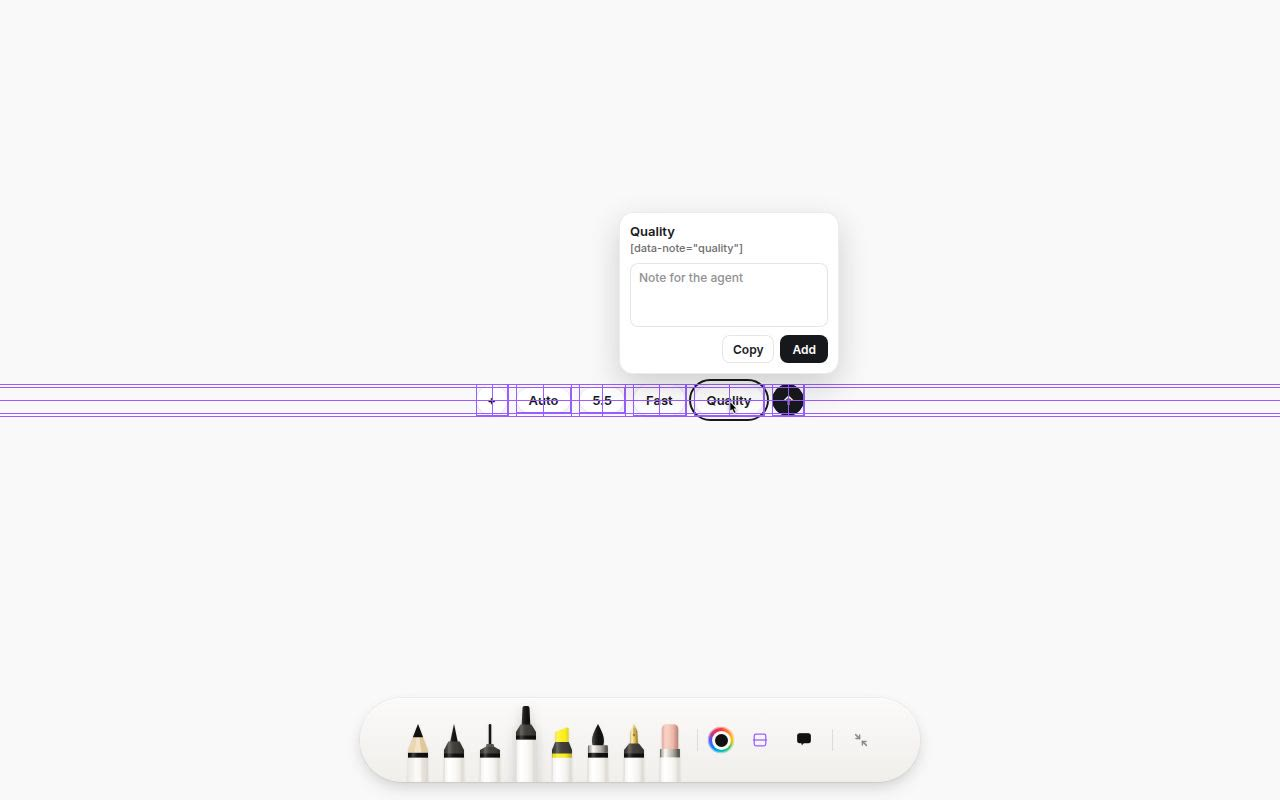
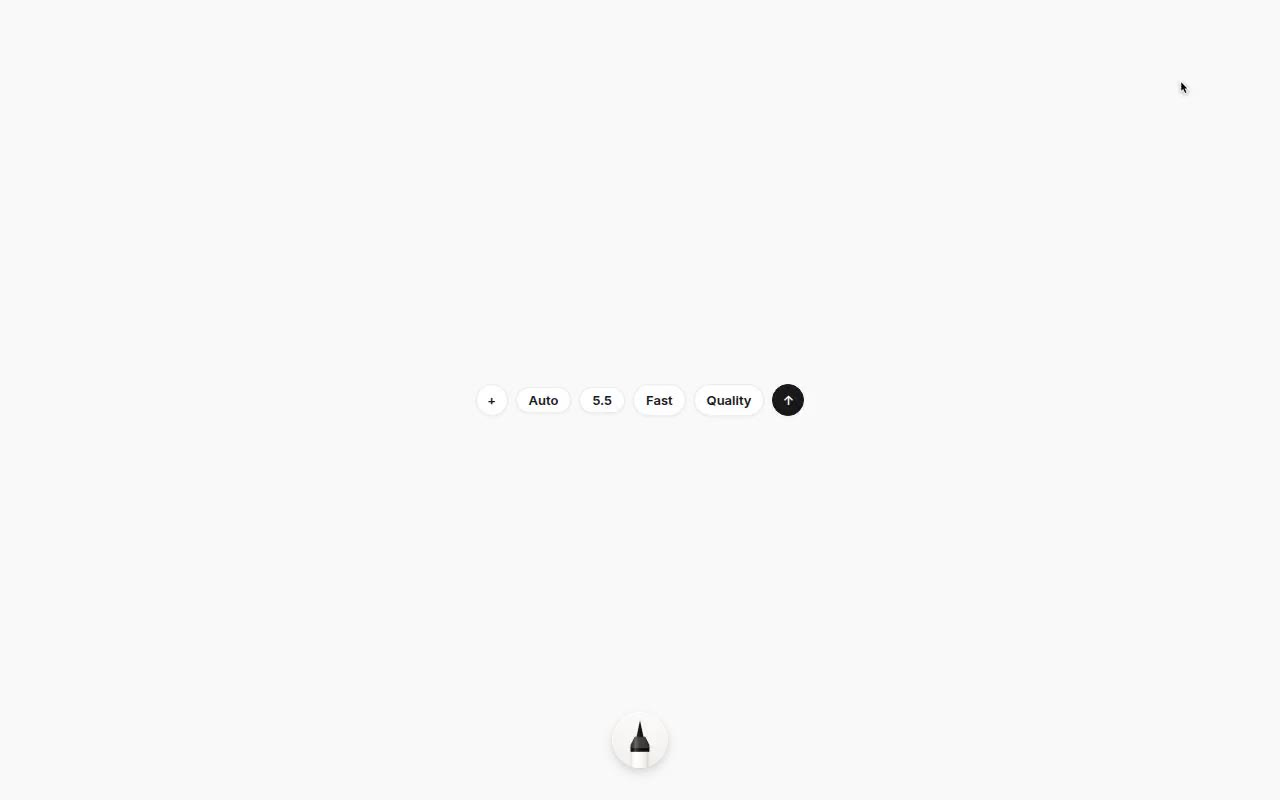
Size walkthrough slots to the clip and pause them offscreen.
16: 10 recordings sit in a centred 672×420 box. The observer keeps running so playback pauses out of view, and the posters are the first frame of each clip.

diff --git a/src/components/CatalogMedia.web.tsx b/src/components/CatalogMedia.web.tsx
@@ -2,14 +2,10 @@ import { useEffect, useRef, useState, type CSSProperties } from 'react';
 import type { CatalogMedia as Media } from '@/src/catalog';
 import { useReduceMotion } from '@/src/context/ReduceMotionContext';
 
-/** Poster files are fixed recordings. The ratio reserves the box before the image arrives. */
-const ASPECT: Record<string, string> = {
-  '/media/stageshow-poster.jpg': '1546 / 1080',
-  '/media/spacing-tuner-poster.jpg': '1280 / 800',
-  '/media/preview-tools-poster.jpg': '1280 / 800',
-};
+const MAX_HEIGHT = 420;
 
-const shell: CSSProperties = {
+/** Stageshow's stage slot: full width of the card, height following the clip, capped at 420. */
+const stageShell: CSSProperties = {
   width: '100%',
   borderRadius: 14,
   overflow: 'hidden',
@@ -17,37 +13,80 @@ const shell: CSSProperties = {
   border: '1px solid rgba(0, 0, 0, 0.04)',
 };
 
+function stageFrame(aspect: string): CSSProperties {
+  return {
+    display: 'block',
+    width: '100%',
+    maxHeight: MAX_HEIGHT,
+    aspectRatio: aspect,
+    objectFit: 'contain',
+    background: '#f9f9f9',
+  };
+}
+
+/** Width of a clip whose height is the 420 cap. 16:10 is 672. */
+function clipMaxWidth(aspect: string): number {
+  const [w, h] = aspect.split('/').map((part) => Number(part.trim()));
+  if (!Number.isFinite(w) || !Number.isFinite(h) || h === 0) return 672;
+  return Math.round((MAX_HEIGHT * w) / h);
+}
+
+/** Walkthrough slot: the clip's own ratio, centred, never taller than 420. */
+function clipShell(aspect: string): CSSProperties {
+  const maxWidth = clipMaxWidth(aspect);
+  return {
+    position: 'relative',
+    width: `min(100%, ${maxWidth}px)`,
+    maxWidth,
+    aspectRatio: aspect,
+    maxHeight: MAX_HEIGHT,
+    marginLeft: 'auto',
+    marginRight: 'auto',
+    borderRadius: 14,
+    overflow: 'hidden',
+    boxSizing: 'border-box',
+    background: '#f9f9f9',
+    border: '1px solid rgba(0, 0, 0, 0.04)',
+  };
+}
+
+const clipFrame: CSSProperties = {
+  position: 'absolute',
+  inset: 0,
+  display: 'block',
+  width: '100%',
+  height: '100%',
+  objectFit: 'cover',
+};
+
 /**
  * Muted looping recording for a catalog entry.
- * The video element is not mounted until the frame nears the viewport, so a
- * below-the-fold card does not request the mp4 or compete for LCP.
+ * No video bytes until the frame intersects the viewport. The observer stays
+ * connected: the clip pauses offscreen and plays again when it returns.
  * Reduced motion, from the OS or the store switch, keeps the poster still.
  */
 export function CatalogMedia({
   media,
   testID,
   stageID,
+  fill = false,
 }: {
   media: Media;
   testID?: string;
   stageID?: string;
+  /** Full-width stage slot. Walkthroughs leave this off and size to the clip. */
+  fill?: boolean;
 }) {
   const { reduceMotion } = useReduceMotion();
   const [system, setSystem] = useState(false);
-  const [near, setNear] = useState(false);
+  const [seen, setSeen] = useState(false);
+  const [visible, setVisible] = useState(false);
   const rootRef = useRef<HTMLDivElement>(null);
   const videoRef = useRef<HTMLVideoElement>(null);
   const still = reduceMotion || system;
-  const play = near && !still;
-  const aspect = ASPECT[media.poster] ?? '16 / 10';
-  const frame: CSSProperties = {
-    display: 'block',
-    width: '100%',
-    maxHeight: 420,
-    aspectRatio: aspect,
-    objectFit: 'contain',
-    background: '#f9f9f9',
-  };
+  const showVideo = seen && !still;
+  const shouldPlay = showVideo && visible;
+  const frame = fill ? stageFrame(media.aspect) : clipFrame;
 
   useEffect(() => {
     if (typeof window.matchMedia !== 'function') return;
@@ -61,34 +100,37 @@ export function CatalogMedia({
   useEffect(() => {
     const node = rootRef.current;
     if (!node || typeof IntersectionObserver !== 'function') {
-      setNear(true);
+      setSeen(true);
+      setVisible(true);
       return;
     }
     const observer = new IntersectionObserver(
       (entries) => {
-        if (entries.some((entry) => entry.isIntersecting)) {
-          setNear(true);
-          observer.disconnect();
-        }
+        const hit = entries.some((entry) => entry.isIntersecting);
+        setVisible(hit);
+        if (hit) setSeen(true);
       },
-      { rootMargin: '160px 0px', threshold: 0.01 },
+      { rootMargin: '0px', threshold: 0.01 },
     );
     observer.observe(node);
     return () => observer.disconnect();
   }, []);
 
   useEffect(() => {
-    if (!play) return;
     const video = videoRef.current;
     if (!video) return;
+    if (!shouldPlay) {
+      video.pause();
+      return;
+    }
     video.muted = true;
     const pending = video.play();
     if (pending) void pending.catch(() => undefined);
-  }, [play]);
+  }, [shouldPlay]);
 
   return (
-    <div ref={rootRef} data-testid={stageID ?? 'catalog-media'} style={shell}>
-      {play ? (
+    <div ref={rootRef} data-testid={stageID ?? 'catalog-media'} style={fill ? stageShell : clipShell(media.aspect)}>
+      {showVideo ? (
         <video
           ref={videoRef}
           data-testid={testID ?? 'catalog-media-video'}
@@ -96,7 +138,6 @@ export function CatalogMedia({
           poster={media.poster}
           muted
           loop
-          autoPlay
           playsInline
           preload="none"
           aria-label={media.alt}

diff --git a/src/components/CatalogMedia.tsx b/src/components/CatalogMedia.tsx
@@ -3,19 +3,38 @@ import type { CatalogMedia as Media } from '@/src/catalog';
 
 const frame = {
   width: '100%' as const,
-  maxHeight: 420,
+  height: '100%' as const,
   backgroundColor: '#f9f9f9',
 };
 
+function aspectNumber(aspect: string): number {
+  const [w, h] = aspect.split('/').map((part) => Number(part.trim()));
+  if (!Number.isFinite(w) || !Number.isFinite(h) || h === 0) return 16 / 10;
+  return w / h;
+}
+
 /** Native stand-in. Web plays the recording from CatalogMedia.web.tsx. */
-export function CatalogMedia({ media, testID }: { media: Media; testID?: string; stageID?: string }) {
+export function CatalogMedia({
+  media,
+  testID,
+  fill = false,
+}: {
+  media: Media;
+  testID?: string;
+  stageID?: string;
+  fill?: boolean;
+}) {
+  const ratio = aspectNumber(media.aspect);
+  const maxWidth = fill ? undefined : Math.round((420 * ratio));
   return (
     <View
       testID={testID}
       style={{
         width: '100%',
+        maxWidth,
         maxHeight: 420,
-        aspectRatio: 16 / 10,
+        aspectRatio: ratio,
+        alignSelf: fill ? 'auto' : 'center',
         borderRadius: 14,
         overflow: 'hidden',
         backgroundColor: '#f9f9f9',
@@ -24,7 +43,7 @@ export function CatalogMedia({ media, testID }: { media: Media; testID?: string;
       <Image
         source={{ uri: media.poster }}
         style={frame}
-        resizeMode="contain"
+        resizeMode="cover"
         accessibilityLabel={media.alt}
         accessibilityIgnoresInvertColors
       />

diff --git a/src/catalog.ts b/src/catalog.ts
@@ -116,6 +116,8 @@ export type CatalogMedia = {
   mp4: string;
   poster: string;
   alt: string;
+  /** CSS aspect-ratio, width / height. The slot uses this instead of a fixed box. */
+  aspect: string;
 };
 
 export const FILTERS: { key: FilterKey; label: string }[] = [
@@ -534,7 +536,8 @@ export const TRANSITIONS: TransitionItem[] = [
       mp4: '/media/preview-tools-demo.mp4',
       poster: '/media/preview-tools-poster.jpg',
       alt: 'Cursor opens the pen tray, picks a pen, shows alignment guides, and opens a note on a control.',
-    },
+      aspect: '16 / 10',
+    } satisfies CatalogMedia,
     Demo: PreviewToolsDemo,
   },
   {
@@ -595,7 +598,8 @@ export const TRANSITIONS: TransitionItem[] = [
       mp4: '/media/spacing-tuner-demo.mp4',
       poster: '/media/spacing-tuner-poster.jpg',
       alt: 'Cursor visits each spacing control as the sidebar, padding, and gaps on the dashboard change.',
-    },
+      aspect: '16 / 10',
+    } satisfies CatalogMedia,
     Demo: SpacingTunerDemo,
   },
   {

diff --git a/src/components/AssetPage.tsx b/src/components/AssetPage.tsx
@@ -1202,9 +1202,9 @@ const styles = StyleSheet.create({
     marginBottom: 12,
   },
   walkthroughRow: { flexDirection: 'row', alignItems: 'flex-start', gap: 20 },
-  walkthroughSide: { width: '46%', marginTop: 32, flexShrink: 0 },
+  walkthroughSide: { width: '46%', marginTop: 32, flexShrink: 0, alignItems: 'center' },
   walkthroughCode: { flex: 1, minWidth: 0 },
-  walkthroughStack: { marginTop: 32 },
+  walkthroughStack: { marginTop: 32, alignItems: 'center' },
   installWrap: { marginBottom: 12 },
   installLine: {
     height: 44,

diff --git a/src/demos/stageshow/media.ts b/src/demos/stageshow/media.ts
@@ -1,6 +1,9 @@
+import type { CatalogMedia } from '@/src/catalog';
+
 /** The stageshow card's recording. The catalog entry and the stage demo both read this. */
 export const stageshowMedia = {
   mp4: '/media/stageshow-demo.mp4',
   poster: '/media/stageshow-poster.jpg',
   alt: 'Cursor demo of product controls, a music player, and a dashboard.',
-};
+  aspect: '1546 / 1080',
+} satisfies CatalogMedia;

diff --git a/src/demos/stageshow/demo.tsx b/src/demos/stageshow/demo.tsx
@@ -3,5 +3,5 @@ import { stageshowMedia } from './media';
 
 /** Native stand-in. Web plays the recording from demo.web.tsx. */
 export function StageshowDemo() {
-  return <CatalogMedia media={stageshowMedia} testID="stageshow-demo" stageID="stageshow-stage" />;
+  return <CatalogMedia media={stageshowMedia} testID="stageshow-demo" stageID="stageshow-stage" fill />;
 }

diff --git a/src/demos/stageshow/demo.web.tsx b/src/demos/stageshow/demo.web.tsx
@@ -3,5 +3,5 @@ import { stageshowMedia } from './media';
 
 /** The card stage. Paths live on the catalog media field. */
 export function StageshowDemo() {
-  return <CatalogMedia media={stageshowMedia} testID="stageshow-demo" stageID="stageshow-stage" />;
+  return <CatalogMedia media={stageshowMedia} testID="stageshow-demo" stageID="stageshow-stage" fill />;
 }

diff --git a/src/components/TransitionCard.tsx b/src/components/TransitionCard.tsx
@@ -443,7 +443,7 @@ const styles = StyleSheet.create({
     ...shadows.card,
   },
   stageWrap: { position: 'relative' },
-  walkthrough: { marginTop: 12 },
+  walkthrough: { marginTop: 12, alignItems: 'center' },
   stageWrapCompact: { height: 150, overflow: 'hidden', borderRadius: radii.stage },
   titlesCompact: { paddingBottom: 2 },
   live: {
